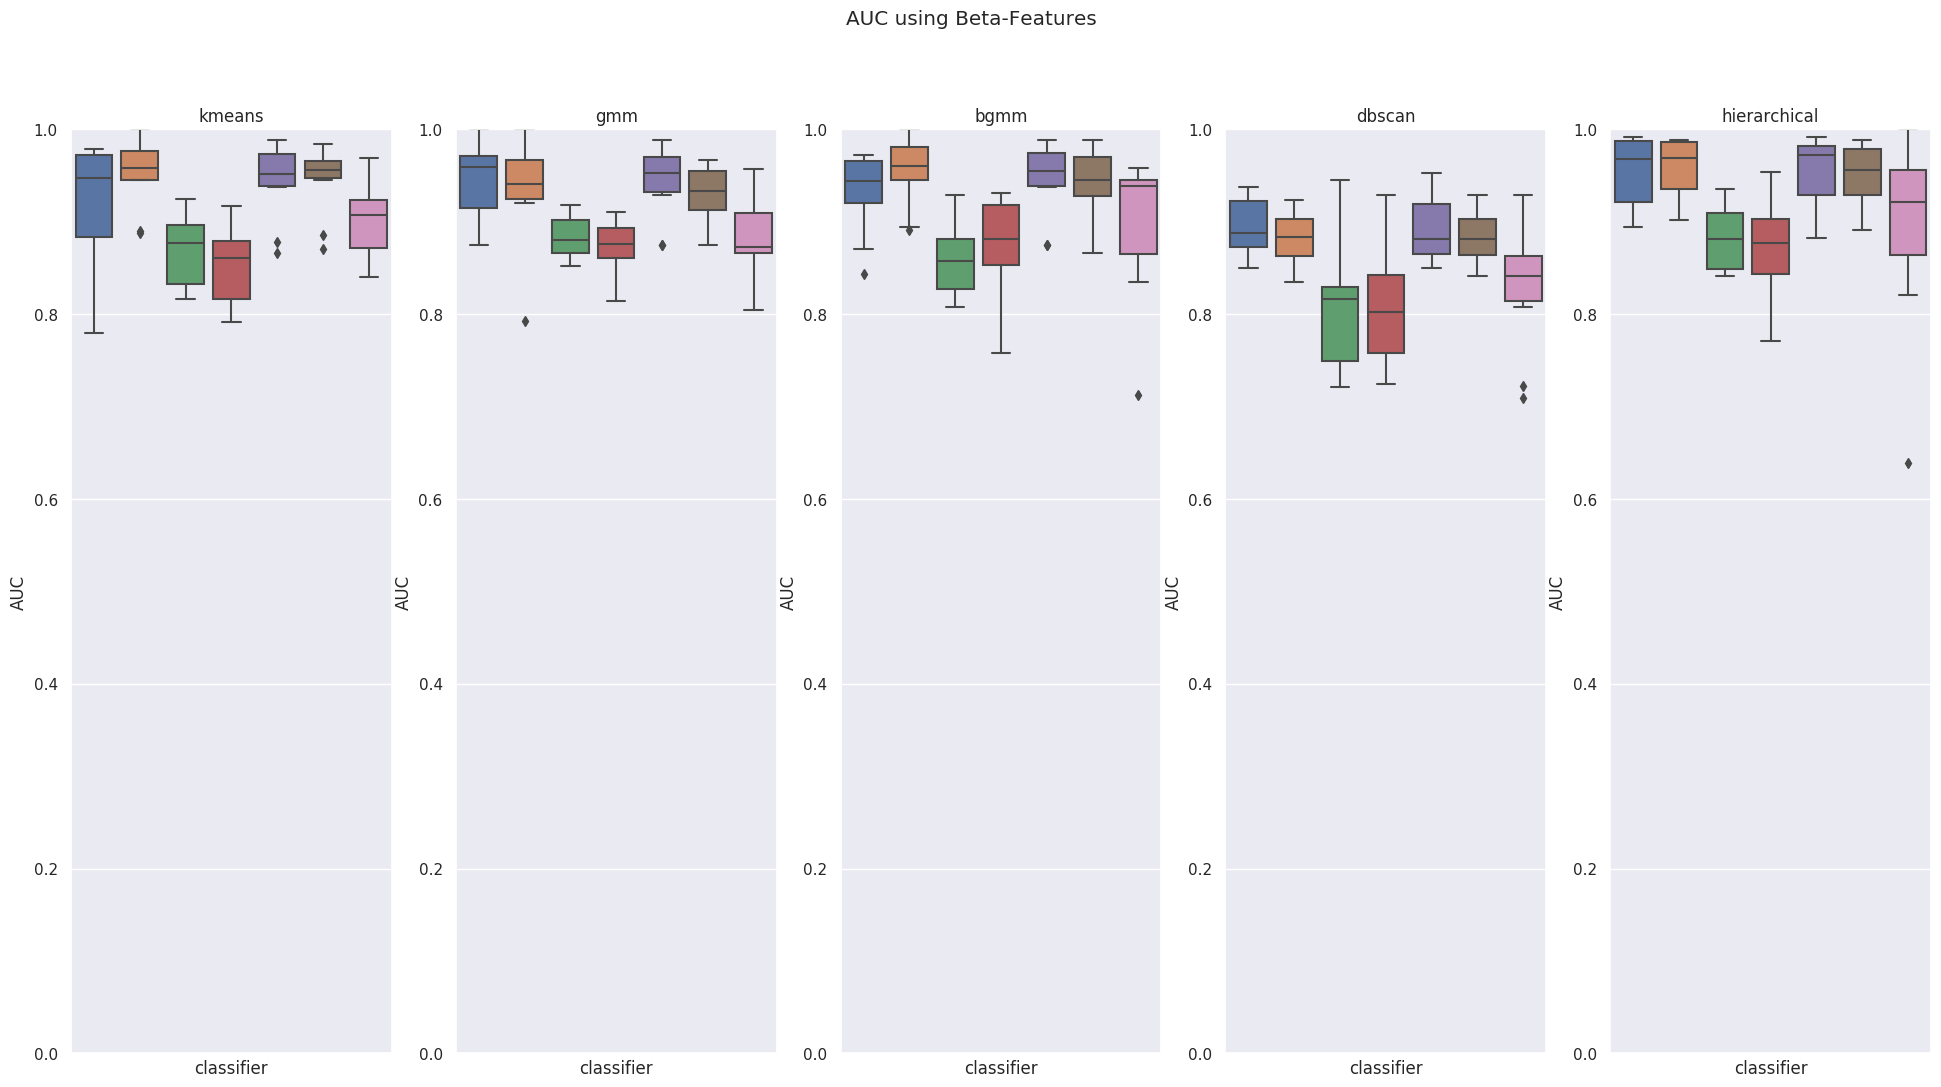
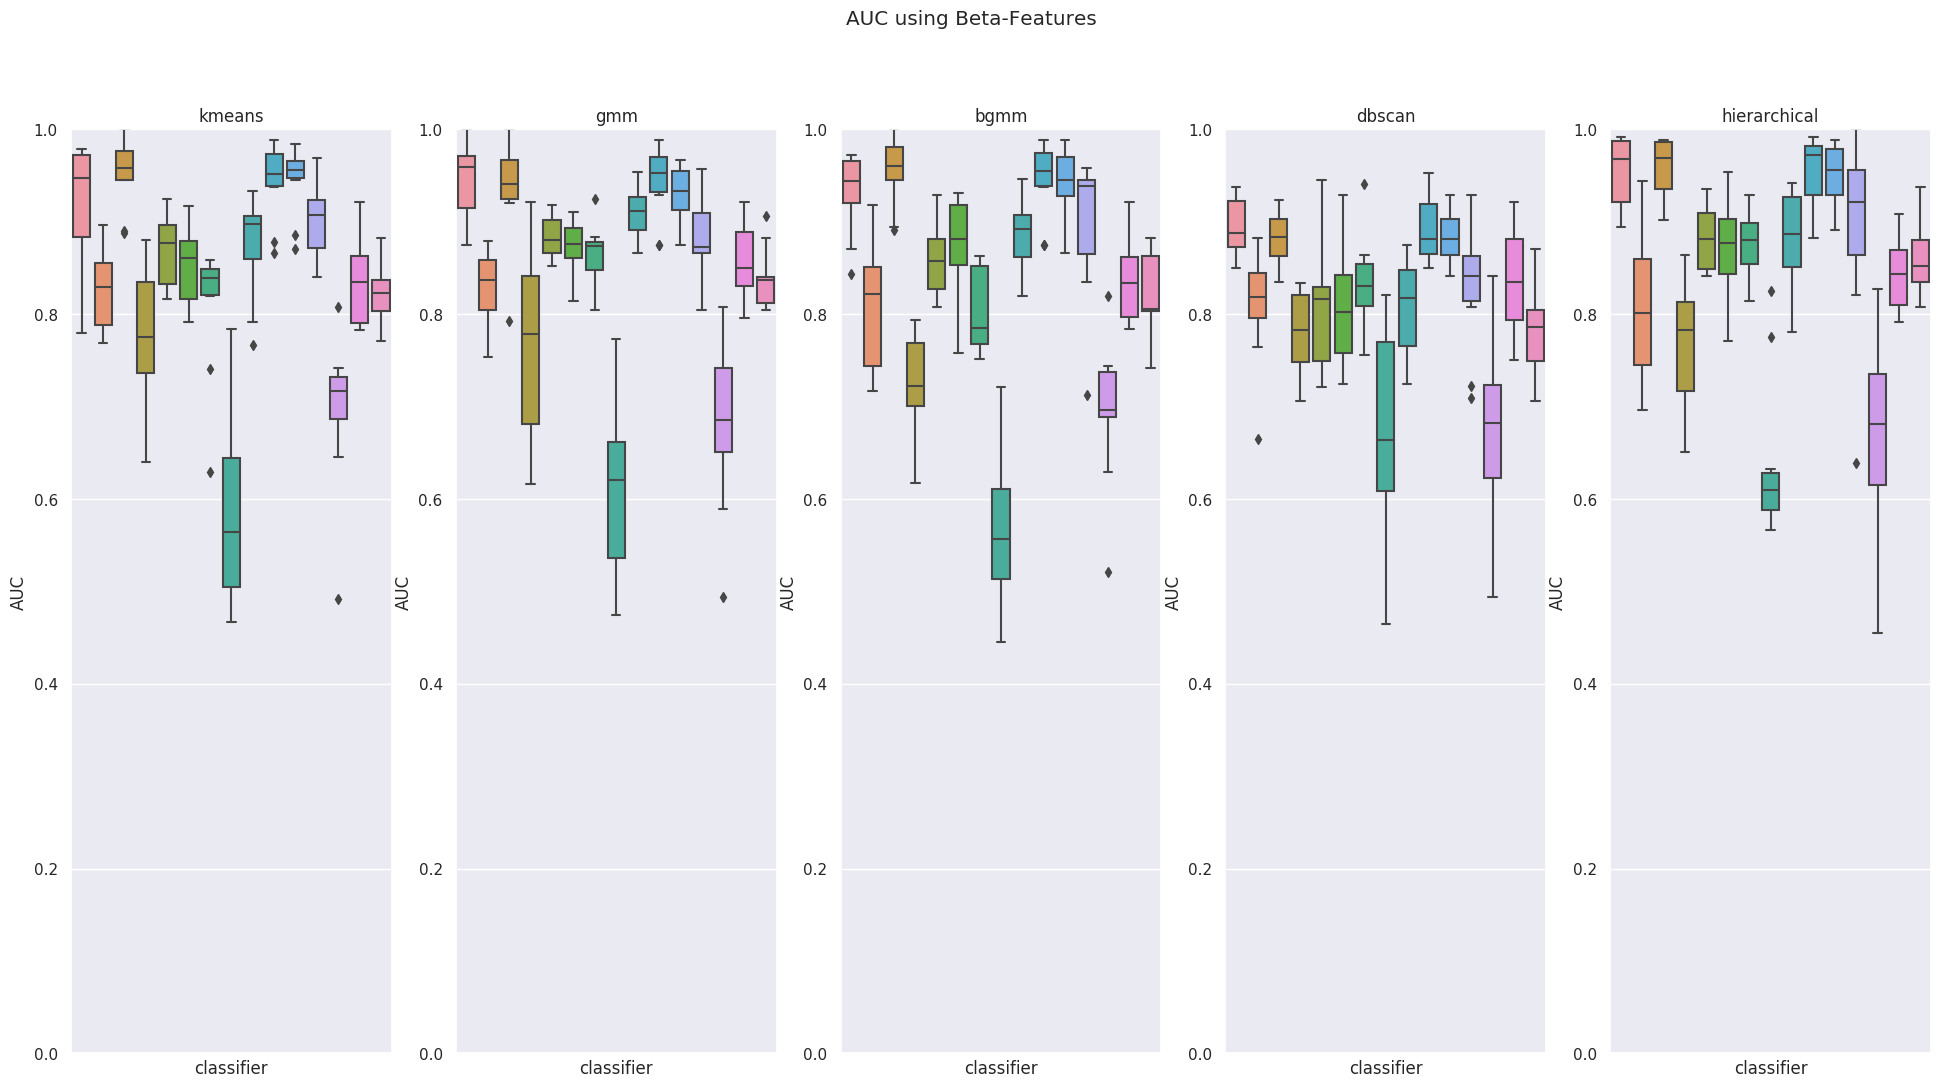
fixed legend and plots to have full classsifiers

diff --git a/dfncluster/Dataset/GaussianConnectivityDataset.py b/dfncluster/Dataset/GaussianConnectivityDataset.py
@@ -20,17 +20,17 @@ class GaussianConnectivityDataset(Dataset):
                  class_parameters=[
                      dict(
                          states=[0.15, 0.15, 0.15, 0.4, 0.15],
-                         sigma_ics=0.1,
+                         sigma_ics=0.05,
                          sigma_ext=0.001,
                          epsilon=0.1,
-                         transition_probability=[0.5, 0.5, 0.5, 0.25, 0.5]
+                         transition_probability=[0.5, 0.5, 0.5, 0.5, 0.5]
                      ),
                      dict(
                          states=[0.4, 0.15, 0.15, 0.15, 0.15],
-                         sigma_ics=0.1,
+                         sigma_ics=0.05,
                          sigma_ext=0.001,
                          epsilon=0.1,
-                         transition_probability=[0.25, 0.5, 0.5, 0.5, 0.5]
+                         transition_probability=[0.5, 0.5, 0.5, 0.5, 0.5]
                      )
                  ],
                  epsilon=1):

diff --git a/make_accuracy_plots.py b/make_accuracy_plots.py
@@ -11,14 +11,14 @@ parser.add_argument("--betas", default=False, action="store_true")
 args = parser.parse_args()
 plt.close()
 exclude = [
-    'Nearest Neighbors',
-    'Ada Boost',
-    'Gradient Boost',
-    'Bernoulli Naive Bayes',
-    'Voting',
-    'Gaussian Process',
-    'Decision Tree',
-    'Bagging'
+#    'Nearest Neighbors',
+#    'Ada Boost',
+#    'Gradient Boost',
+#    'Bernoulli Naive Bayes',
+#    'Voting',
+#    'Gaussian Process',
+#    'Decision Tree',
+#    'Bagging'
 ]
 ROOT_DIR = 'results'
 DATASET = args.dataset.lower()
